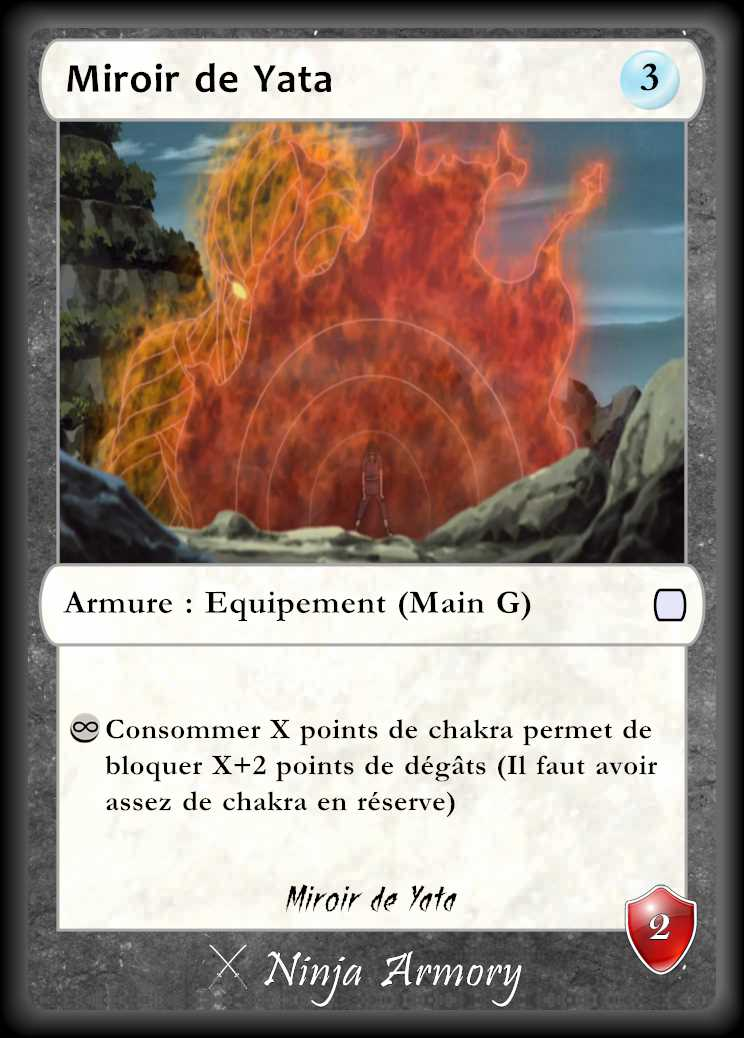
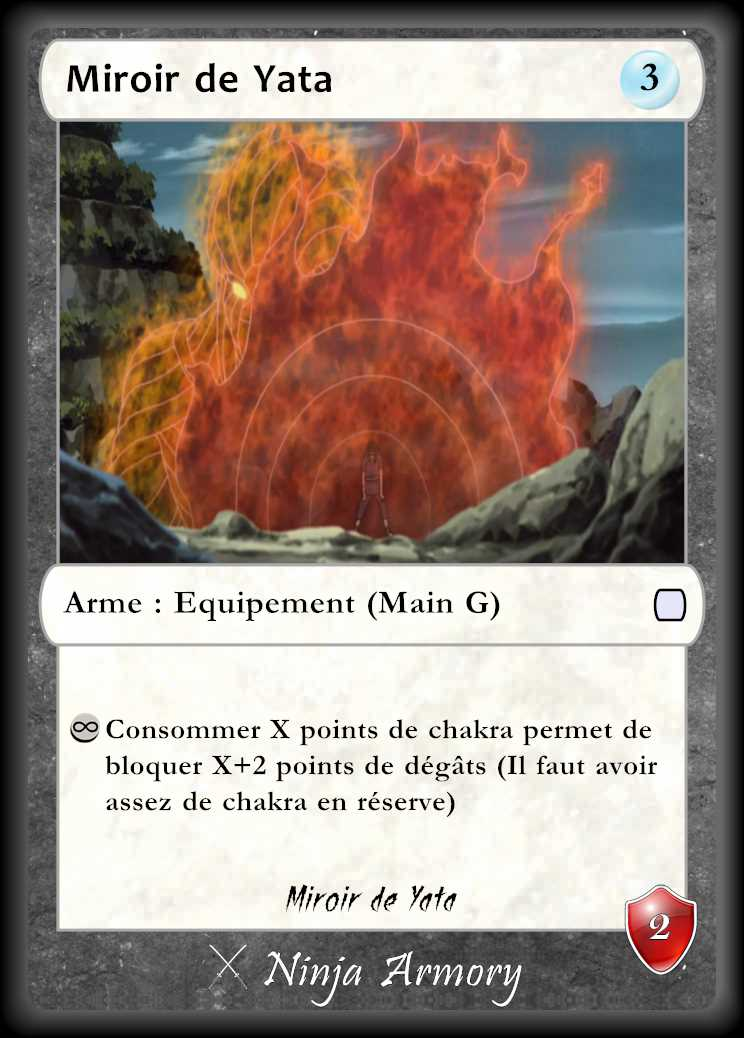
fix text + new cards

Changed region(s): [[0.1855, 0.5549, 0.711, 0.6166]]

diff --git a/README.md b/README.md
@@ -23,17 +23,17 @@
   
 ## Bugs
 
-* [ ] Chiyo : invocation manquante ?
-* [ ] Texte protection : on peut choisir si il protege ou pas
 * [ ] Homogénéiser le sort de soin  (permanent VS activate 1x/tour)
 * [ ] Cimetiere vers main -> doit refresh la main (bug cimetiere refresh adversaire)
 * [ ] Ajouter des sorts de destruction d'équipement
 * [ ] Ajouter la notion de carte désactivée 
-* [ ] Nagato augmenter son prix
-* [ ] Mirroir de Yata -> Armure
-* [ ] Gants - > paire de gants -> mainS
-* [ ] Io -> activation
-* [ ] Documentation : Expliquer immobiliser-> pas d'attaque directes(jutsu autorisé)
+* [X] Nagato augmenter son prix
+* [X] Mirroir de Yata -> Armure
+* [X] Gants - > paire de gants -> mainS
+* [X] Io -> activation
+* [X] Chiyo : invocation manquante ?
+* [X] Texte protection : on peut choisir si il protege ou pas
+* [X] Documentation : Expliquer immobiliser-> pas d'attaque directes(jutsu autorisé)
 * [X] Ajouter https://fr.wikipedia.org/wiki/Personnages_secondaires_du_Pays_des_Neiges
 * [X] Reprendre carte intrigue à Tanzakugai + conditions quand jouable
 * [X] reprendre carte Piège de renvoi -> ne subit aucun dmg
@@ -99,6 +99,15 @@ Exemple de carte                        | Description
 <img src="https://raw.githubusercontent.com/bbassac/CardsMasterGame/master/src/main/resources/static/img/doc/piege.png" width="350px"> | A. Nom de la carte piège  <br />B. Coût de la carte piège  <br />C. Nature du piège <br />D. Conditions de déclenchement du piège  <br /> E. Nom de l'extension dans laquelle apparaît la carte  
 
 ## Règles
+
+### Glossaire et mécaniques
+
+* Protection :
+    * Sur un équipement, permet de pouvoir absorber (ou pas au choix) des dégâts. L'excédant de dégats est infligé au porteur
+    * Sur un personnage, celui peut s'interposer (ou pas au choix) et subir les dégats à la place du personnage ciblé
+
+* Immobiliser : Un personnage ne peut lancer d'attaque directe (corps à corps) s'il est immobilisé, mais peut toujours lancer des sorts
+
 
 ### Début de partie
 
